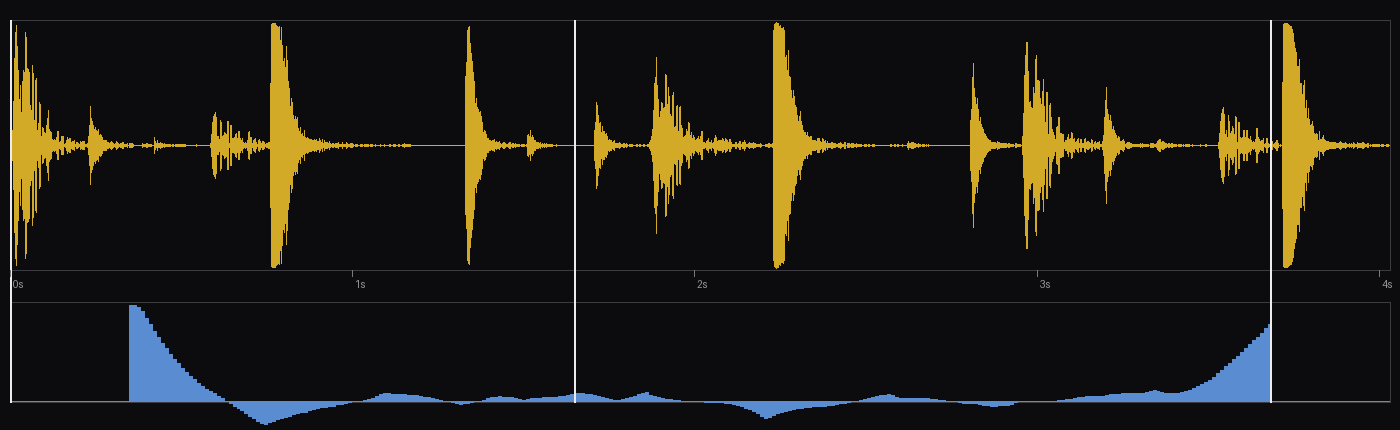
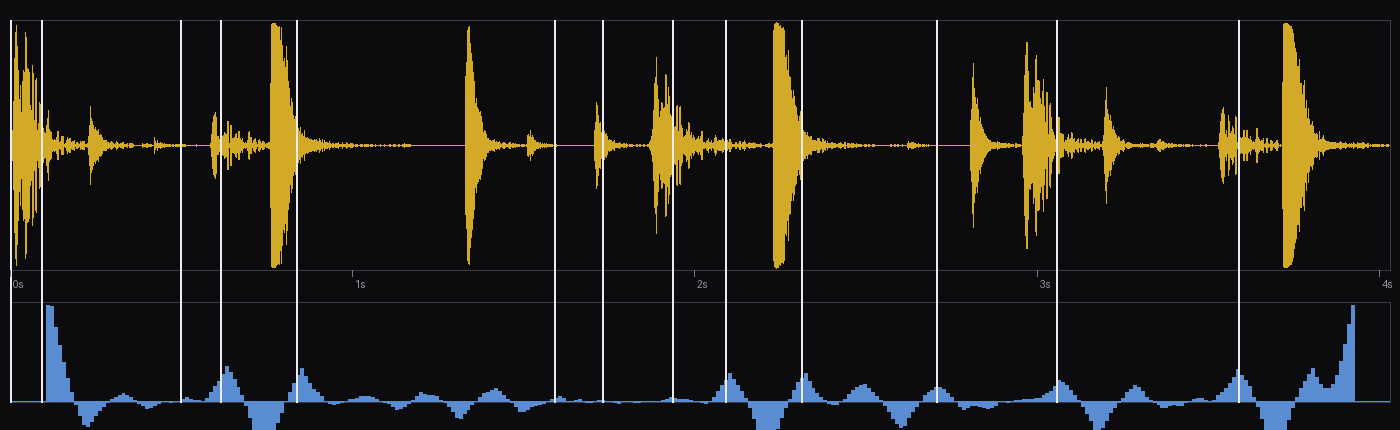
tools: one mode, scale follows the material
Single detector, no mode switch: the Foote region scale is derived from the
file's onset density (region = 0.9 / onsets-per-second, clamped to 0.22..0.75 s).
Dense material gets short regions - a break now yields 13 slices at the hits -
while a sustained vocal phrase keeps long ones and yields 5. --region still
overrides in seconds.

Counts: break 13, vocal 5, guitar phrase 9, short guitar 5, bass 2.

Changed region(s): [[0.0307, 0.6953, 0.3379, 1.0], [0.7371, 0.7256, 0.9829, 1.0], [0.3379, 0.8767, 0.7064, 1.0]]

diff --git a/tools/hpss/spectral_chop.py b/tools/hpss/spectral_chop.py
@@ -1,41 +1,29 @@
 #!/usr/bin/env python3
-"""Spectral Chop, simple and precise.
+"""Spectral Chop: regions, not note chops.
 
-    python3 tools/hpss/spectral_chop.py IN.wav [--max 16] [--sensitivity 2.5]
-                                            [--png out.png]
+    python3 tools/hpss/spectral_chop.py IN.wav [--region 0] [--max 16] [--png out.png]
 
-The whole algorithm is four steps:
+A chop has to be recombable, so a slice is a region - a self-contained musical
+fragment - not a note. The boundary is where the music changes identity: a new
+chord, a new phrase, a new texture.
 
-  1. STFT: 1024-sample Hann frames, hop 512.
-  2. Onset strength: spectral flux per band. The bins are split into
-     low (<250 Hz), mid (250-2000 Hz) and high (>2 kHz); each band's positive
-     change is divided by that band's own magnitude and the three curves are
-     averaged. A kick, a snare and a hat therefore count the same, and a quiet
-     hit counts as much as a loud one, with no scale constants.
-  3. Peaks: a frame is an onset when its flux is the local maximum and exceeds
-     `sensitivity` times the median flux of +-0.5 s around it. No absolute
-     threshold, so it adapts to the material instead of to its loudest hit.
-  4. Position: inside the frame that carries the attack, the 1 ms envelope is
-     measured over +-20 ms and the boundary goes where the rising edge passes
-     15% of the transient's peak - the first moment the hit is visible, so the
-     slice starts on the attack with no silence in front and no clipped front.
+  1. Features: 12-bin chroma (0.6) and 48 log-spaced bands (0.4) from a
+     1024/512 STFT, each normalised per frame.
+  2. Self-similarity: cosine similarity between every pair of frames.
+  3. Foote novelty: a checkerboard kernel over that matrix compares "after"
+     with "before" and removes the similarity inside each side, so a repeated
+     note or a held chord makes no peak while a chord change does.
+  4. Scale: the shortest region is set from the material's onset density -
+     dense material (drums) gets short regions and one pad per hit, sustained
+     material (a vocal phrase) gets long ones and a few phrase slices. That is
+     one rule, not two modes; `--region` overrides it in seconds.
+  5. Position: the boundary is refined onto the attack when the 1 ms envelope
+     has a step, otherwise it stays on the change frame.
+  6. A 50 ms RMS gate drops boundaries that would slice a fade or reverb tail,
+     and at most 16 onsets are used, the first in time order.
 
-Slices are what the firmware builds: slice i spans [pos[i], pos[i+1]) and the
-last runs to the end of the sample. At most 16 slices are made: the first 16
-onsets are used and everything after the sixteenth stays on the last pad.
-
-`tools/hpss/onsets.py` is the reference for the *shipped* detector; this file
-is the tuning bed for its replacement.
-
-On the B3 break (4.03 s, 177706 frames) it produces 16 slices: fifteen between
-83 and 390 ms with the boundary on the attack, and a last one carrying
-everything that follows the sixteenth onset, exactly as the pad layout wants.
-
-Two rules keep it honest: the threshold is `delta + lambda * local median`
-with `delta` a tenth of the file's mean novelty, which stops a quiet passage
-from firing on noise; and a peak must stand out from the valley since the
-previous onset by 0.8x the mean novelty, which stops the decaying tail of a
-loud hit from counting as a new one.
+`--region 0` (default) follows the material. Slices are [pos[i], pos[i+1]) and
+the last runs to the end of the sample.
 """
 import argparse
 import sys
@@ -170,7 +158,29 @@ def place(x, rate, frame, fraction=0.15):
     return max(0, a + onset * hop)
 
 
-def onsets(x, rate, max_slices=16, region_s=0.7, fraction=0.15):
+def onset_density(x, rate):
+    """Onsets per second - tells dense material from sustained material."""
+    mag = stft_magnitude(x)
+    diff = np.diff(np.log1p(mag), axis=0,
+                   prepend=np.zeros((1, mag.shape[1]), np.float32))
+    flux = np.maximum(diff, 0).sum(axis=1)
+    half = max(1, int(0.5 * rate / HOP))
+    med = np.array([np.median(flux[max(0, i - half):i + half + 1])
+                    for i in range(len(flux))])
+    thr = 0.1 * float(flux.mean()) + 2.5 * med
+    peaks, last = [], -10 ** 9
+    gap = max(1, int(0.040 * rate / HOP))
+    for f in range(1, len(flux) - 1):
+        if not (flux[f] > flux[f - 1] and flux[f] > flux[f + 1]):
+            continue
+        if flux[f] < thr[f] or f - last < gap:
+            continue
+        peaks.append(f)
+        last = f
+    return float(len(peaks)) / max(0.2, len(x) / rate)
+
+
+def onsets(x, rate, max_slices=16, region_s=0.0, fraction=0.15):
     """Slices are regions: cut where the music changes identity.
 
     `region_s` is the shortest region the detector can see - the one knob. It
@@ -178,6 +188,11 @@ def onsets(x, rate, max_slices=16, region_s=0.7, fraction=0.15):
     instead of from a target.
     """
     mag = stft_magnitude(x)
+    if region_s <= 0:
+        # dense material (drums) gets a shorter region, sustained material
+        # (a vocal phrase) a longer one: one rule, no mode switch
+        density = onset_density(x, rate)
+        region_s = float(np.clip(0.9 / max(density, 0.4), 0.22, 0.75))
     feat = np.hstack([0.6 * chroma(mag, rate), 0.4 * timbre(mag, rate)])
     half = max(2, int(region_s * rate / HOP) // 2)
     novelty = foote_novelty(feat, half)
@@ -222,8 +237,8 @@ def main():
         description=__doc__, formatter_class=argparse.RawDescriptionHelpFormatter)
     ap.add_argument("input")
     ap.add_argument("--max", type=int, default=16)
-    ap.add_argument("--region", type=float, default=0.7,
-                    help="shortest region in seconds - the one knob")
+    ap.add_argument("--region", type=float, default=0.0,
+                    help="shortest region in seconds; 0 = follow the material")
     ap.add_argument("--cut-fraction", type=float, default=0.15,
                     help="where on the rising edge to cut: 0.15 sits where the "
                          "burst becomes visible on screen, 0.5 in the middle of "
@@ -234,15 +249,19 @@ def main():
     data, rate, ch = read_wav(args.input)
     x = np.asarray(data, dtype=np.float32).reshape(-1, ch).mean(axis=1)
     frames = len(x)
+    density = 0.0 if args.region > 0 else None
     positions, detected, strength = onsets(
         x, rate, args.max, args.region, args.cut_fraction)
+    region_used = args.region if args.region > 0 else float(
+        np.clip(0.9 / max(onset_density(x, rate), 0.4), 0.22, 0.75))
     sl = slices_from(positions, frames)
     lengths = [b - a for _, a, b in sl]
 
     print(f"file        {args.input}")
     print(f"format      {rate} Hz, {ch} ch, {frames} frames, {frames / rate:.3f} s")
-    print(f"analysis    Foote novelty on chroma+timbre, shortest region "
-          f"{args.region:.2f} s")
+    print("analysis    Foote novelty on chroma+timbre, "
+          f"shortest region {region_used:.2f} s"
+          + (" (auto)" if args.region <= 0 else ""))
     print(f"onsets      {len(detected)} found, {len(positions)} slices (cap {args.max})")
     print()
     print(f"{'#':>2} {'start':>7} {'end':>7} {'frames':>7} {'ms':>7}")
